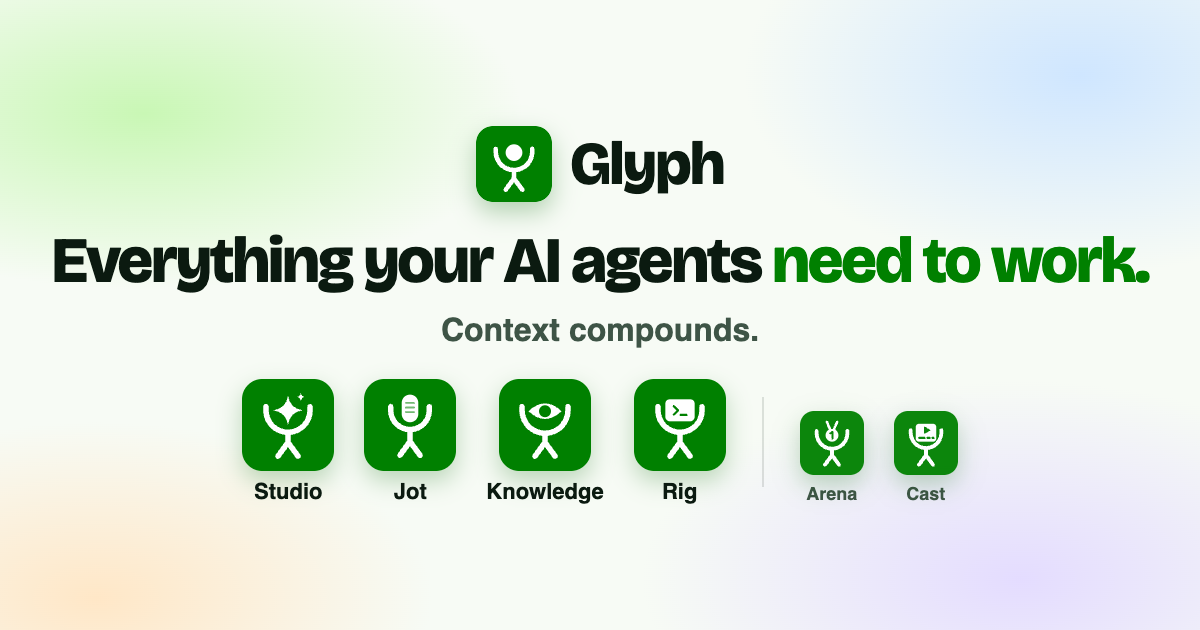
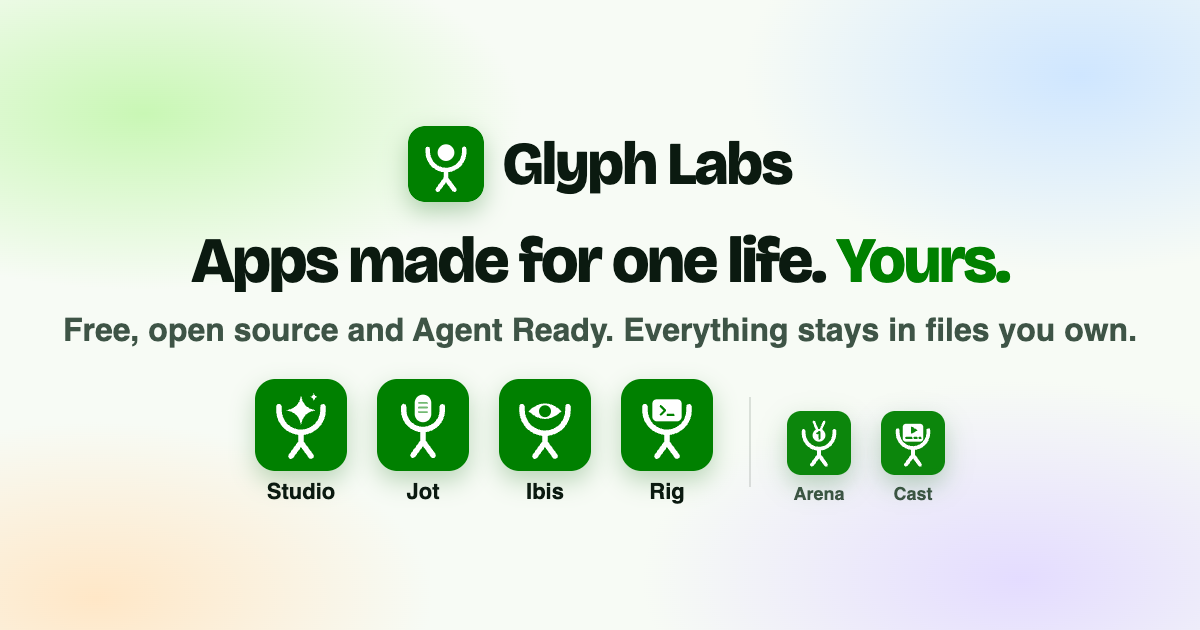
Home: Glyph Labs, a new headline, and a clearer way into each app
The home is named Glyph Labs and says "Apps made for one life. Yours." in
three stacked lines, with a hand-written note beside the last and the line
under it in two tones. The mark, the name and "by fru.dev" share one line.

Glyph Native's tile is filled green, the only one that is. The way into an
app is a green button on the stage's lower edge, and what the app is runs
under it on one line. Tiles answer the pointer. The two halves share one
height. The small print fits one line where the column allows.

home-copy.mjs lets a headline break and sets the first sentence of the line
under it in ink; the share image is redrawn with the new name and words.

diff --git a/docs/index.html b/docs/index.html
@@ -3,8 +3,8 @@
 <head>
 <meta charset="utf-8">
 <meta name="viewport" content="width=device-width, initial-scale=1, viewport-fit=cover">
-<title>Glyph | Everything your AI agents need to work</title>
-<meta name="description" content="Glyph: everything your AI agents need to work. Four layers: Glyph Studio, the environment your agents work in; Glyph Jot, what you know; Glyph Ibis, what the world knows; Glyph Rig, where your agents run. Plus three tools, Glyph Arena, Glyph Cast and Glyph Time. By fru.dev.">
+<title>Glyph Labs | Apps made for one life. Yours.</title>
+<meta name="description" content="Glyph Labs: apps made for one life, yours. Free, open source and agent ready, and everything stays in files you own. Four layers: Glyph Studio, the environment your agents work in; Glyph Jot, what you know; Glyph Ibis, what the world knows; Glyph Rig, where your agents run. Plus Glyph Arena, Glyph Cast, Glyph Time and Glyph Native, the one install for all of them. By fru.dev.">
 <link rel="icon" href="/family/glyph-small.svg" type="image/svg+xml">
 <link rel="icon" href="/family/glyph-192.png" type="image/png" sizes="192x192">
 <link rel="apple-touch-icon" href="/family/glyph-180.png">
@@ -15,8 +15,8 @@
 <meta name="theme-color" content="#F7FBF5">
 <meta property="og:site_name" content="Glyph by fru.dev">
 <meta property="og:type" content="website">
-<meta property="og:title" content="Glyph | Everything your AI agents need to work">
-<meta property="og:description" content="Glyph: everything your AI agents need to work. Four layers: Glyph Studio, the environment your agents work in; Glyph Jot, what you know; Glyph Ibis, what the world knows; Glyph Rig, where your agents run. Plus three tools, Glyph Arena, Glyph Cast and Glyph Time. By fru.dev.">
+<meta property="og:title" content="Glyph Labs | Apps made for one life. Yours.">
+<meta property="og:description" content="Glyph Labs: apps made for one life, yours. Free, open source and agent ready, and everything stays in files you own. Four layers: Glyph Studio, the environment your agents work in; Glyph Jot, what you know; Glyph Ibis, what the world knows; Glyph Rig, where your agents run. Plus Glyph Arena, Glyph Cast, Glyph Time and Glyph Native, the one install for all of them. By fru.dev.">
 <meta property="og:url" content="https://glyph.fru.dev/">
 <meta property="og:image" content="https://glyph.fru.dev/og-image.png">
 <meta property="og:image:width" content="1200">
@@ -24,8 +24,8 @@
 <meta property="og:image:alt" content="Glyph: everything your AI agents need to work. Studio, Jot, Ibis and Rig, plus Arena, Cast and Time">
 <meta name="twitter:card" content="summary_large_image">
 <meta name="twitter:site" content="@fru">
-<meta name="twitter:title" content="Glyph | Everything your AI agents need to work">
-<meta name="twitter:description" content="Glyph: everything your AI agents need to work. Four layers: Glyph Studio, the environment your agents work in; Glyph Jot, what you know; Glyph Ibis, what the world knows; Glyph Rig, where your agents run. Plus three tools, Glyph Arena, Glyph Cast and Glyph Time. By fru.dev.">
+<meta name="twitter:title" content="Glyph Labs | Apps made for one life. Yours.">
+<meta name="twitter:description" content="Glyph Labs: apps made for one life, yours. Free, open source and agent ready, and everything stays in files you own. Four layers: Glyph Studio, the environment your agents work in; Glyph Jot, what you know; Glyph Ibis, what the world knows; Glyph Rig, where your agents run. Plus Glyph Arena, Glyph Cast, Glyph Time and Glyph Native, the one install for all of them. By fru.dev.">
 <meta name="twitter:image" content="https://glyph.fru.dev/og-image.png">
 <link rel="preconnect" href="https://fonts.googleapis.com">
 <link rel="preconnect" href="https://fonts.gstatic.com" crossorigin>
@@ -68,7 +68,15 @@
 .slide.inst li img{width:100%;height:auto;border-radius:24%;box-shadow:0 10px 22px var(--shadow)}
 @keyframes wv{0%,100%{height:5px}50%{height:clamp(14px,2.4vh,22px)}}
 .cap{display:flex;align-items:center;justify-content:space-between;gap:12px;width:100%;font-size:clamp(15px,1.9vh,17px);color:var(--soft)}
-.cap a{font-weight:700;text-decoration:none;white-space:nowrap}.cap a:hover{text-decoration:underline}
+.cap a{font-weight:700;text-decoration:none;white-space:nowrap}
+/* The way into the app is a button, not a line of green words: it sits on the stage's lower edge, and what the app
+   is runs under it on one line (the script below shrinks the line to fit, never wraps it). */
+.cap{flex-direction:column;justify-content:flex-start;gap:clamp(6px,1.2vh,12px);position:relative;z-index:2}
+.cap #capgo{order:-1;display:inline-flex;align-items:center;gap:10px;height:clamp(40px,5.4vh,48px);padding:0 clamp(18px,1.8vw,26px);margin-top:calc(-1 * clamp(10px,1.8vh,18px) - clamp(20px,2.7vh,24px));border-radius:999px;background:var(--green);color:var(--on-green);font-size:clamp(15px,2vh,17px);box-shadow:0 12px 24px rgba(0,128,0,.35),0 0 0 4px var(--bg);transition:transform .2s cubic-bezier(.16,1,.3,1),background .2s,box-shadow .2s}
+.cap #capgo::after{content:"\2192";font-weight:800;transition:transform .2s}
+.cap #capgo:hover{background:var(--green-h);transform:translateY(-2px);box-shadow:0 16px 28px rgba(0,128,0,.4),0 0 0 4px var(--bg)}
+.cap #capgo:hover::after{transform:translateX(4px)}
+#capline{display:block;width:100%;text-align:center;white-space:nowrap;overflow:hidden}
 /* every app on the board: four layers over three tools, each row edge to edge on twelve tracks */
 .tabs{list-style:none;margin:0;padding:0;display:grid;grid-template-columns:repeat(12,minmax(0,1fr));gap:clamp(6px,.7vw,12px);width:100%}
 .tab{grid-column:span 3}
@@ -80,6 +88,24 @@
 .tab .st i{font-style:normal;font-weight:800;color:var(--green);margin-right:5px}
 .tab.tool img{width:clamp(28px,4.4vh,42px)}
 .tab[aria-selected=true]{border-color:var(--tint-line);background:var(--tint)}
+/* Glyph Native is the one that installs the rest, so its tile alone is filled green */
+.tab[data-k=native],.tab[data-k=native][aria-selected=true]{background:var(--green);border-color:var(--green);color:var(--on-green);box-shadow:0 12px 24px -10px rgba(0,128,0,.6)}
+.tab[data-k=native] .st{color:rgba(255,255,255,.88)}
+.tab[data-k=native] img{box-shadow:0 0 0 2px rgba(255,255,255,.85)}
+.tab[data-k=native][aria-selected=true]::after{background:#fff}
+/* a tile answers the pointer: it rises with a green edge and a green shadow, its icon grows and its name turns green */
+.tab{transition:transform .25s cubic-bezier(.16,1,.3,1),box-shadow .25s,border-color .25s,background .25s}
+.tab img{transition:transform .3s cubic-bezier(.16,1,.3,1),box-shadow .3s}.tab b{transition:color .2s}
+@media (hover:hover){
+  .tab:hover,.tab:focus-visible{transform:translateY(-5px);border-color:var(--green);background:#fff;box-shadow:0 18px 30px -14px rgba(0,128,0,.55),0 0 0 3px rgba(0,128,0,.1)}
+  .tab:hover img,.tab:focus-visible img{transform:translateY(-2px) scale(1.07) rotate(-4deg);box-shadow:0 10px 18px -8px rgba(0,100,0,.6)}
+  .tab:hover b,.tab:focus-visible b{color:var(--green)}
+  .tab[data-k=native]:hover,.tab[data-k=native]:focus-visible{background:var(--green-h);border-color:var(--green-h)}
+  .tab[data-k=native]:hover b,.tab[data-k=native]:focus-visible b{color:#fff}
+  .tab[data-k=native]:hover img,.tab[data-k=native]:focus-visible img{box-shadow:0 0 0 2px #fff,0 10px 18px -8px rgba(0,40,0,.6)}
+  .tab:active{transform:translateY(-1px)}
+}
+@media (prefers-reduced-motion:reduce){.tab,.tab img{transition:none}.tab:hover,.tab:hover img{transform:none}}
 .tab[aria-selected=true]::after{content:"";position:absolute;left:0;bottom:0;height:3px;width:100%;background:var(--green);transform-origin:left;animation:fill var(--dur,7s) linear forwards}
 .tabs.hold .tab::after{animation-play-state:paused}
 @keyframes fill{from{transform:scaleX(0)}}
@@ -93,7 +119,22 @@
   .left .top{order:1}.left .cta{order:3}
 }
 @media (max-width:520px){.tab{padding:8px 2px;border-radius:12px}.tab .st{display:none}.tab b{font-size:13px}}
-@media (min-width:960px) and (min-height:560px){.left{justify-content:center;gap:clamp(28px,6vh,64px)}.lede{font-size:clamp(20px,2.8vh,30px)}.right{gap:clamp(10px,1.8vh,18px)}.stage{width:min(100%,calc((100svh - 44px - 10vh - 366px) * 1.6))}}
+/* The hero: the mark, the name and "by fru.dev"
+   on one line; the headline stacked in three big lines; a hand-written note beside the green one (placed by the
+   script below, and hidden where there is no room for it); the line under it in two tones. */
+.brand>div{display:flex;align-items:center;gap:14px}.brand span{margin-top:0;padding-left:14px;border-left:1px solid var(--line)}
+.lede b{display:block;color:var(--ink);font-weight:700}
+.top{position:relative}
+.hn{display:none;position:absolute;align-items:center;gap:8px;font:700 clamp(20px,3vh,30px)/1 "Caveat",cursive;color:var(--green);white-space:nowrap;transform:rotate(-4deg);transform-origin:left center;pointer-events:none}
+.hn svg{width:2.1em;height:1.2em;flex:none}
+@media (min-width:960px) and (min-height:560px){.icon{width:clamp(44px,6.4vh,60px)}.brand b{font-size:clamp(26px,4.2vh,38px)}
+  h1{font-size:clamp(40px,min(10.4vh,7.6vw),150px);line-height:.95;letter-spacing:-.035em}}
+/* a short window: the three lines come down so the left half stays as tall as the right */
+@media (min-width:960px) and (min-height:560px) and (max-height:720px){h1{font-size:clamp(34px,min(7.4vh,7.6vw),150px)}.left .cta.loved{margin-bottom:clamp(40px,6vh,56px)}}
+/* a phone or a tablet: two lines, as before */
+@media not ((min-width:960px) and (min-height:560px)){#copy-h1 br{display:none}}
+/* the two halves share one height: the row is as tall as the right half, and the left spreads from its top to its bottom */
+@media (min-width:960px) and (min-height:560px){main{grid-template-rows:auto;align-content:center}.right{align-self:stretch}.left{justify-content:flex-start;gap:clamp(14px,3vh,32px)}.left .cta,.left .alt{margin-top:auto}.lede{font-size:clamp(20px,2.8vh,30px)}.right{gap:clamp(10px,1.8vh,18px)}.stage{width:min(100%,calc((100svh - 44px - 10vh - 366px) * 1.6))}}
 @media (max-width:1280px){.formac{display:none}}
 /* how they fit: the four layers, then the three tools */
 .layers{list-style:none;margin:0;padding:18px 24px 4px;display:grid;gap:8px}
@@ -112,16 +153,17 @@
   .left .agents{order:4;width:min(100%,440px)}.left .famnote{order:4;width:min(100%,440px);text-align:center}
 }
 @media (max-width:440px){.fam{gap:6px;padding:8px 10px}.fam .grp+.grp{padding-left:6px}.fam .paid{gap:5px}.fam figure img,.fam .ours img{width:32px}}
-@media (min-width:960px) and (min-height:560px){.left .cta.loved{margin-bottom:clamp(44px,6vh,72px)}.left .famnote{margin-top:calc(8px - clamp(28px,6vh,64px))}}
+@media (min-width:960px) and (min-height:560px){.left .cta.loved{margin-bottom:clamp(44px,6vh,72px)}.left .famnote{margin-top:calc(8px - clamp(14px,3vh,32px))}}
 </style>
 </head>
 <body data-page="home">
 <main>
   <div class="left">
     <div class="top">
-      <a class="brand" href="/"><img class="icon" src="/family/glyph-tile.svg" width="80" height="80" alt=""><div><b>Glyph</b><span id="copy-label">by fru.dev</span></div></a>
-      <h1 data-lines='["need to work."]' data-fit=".left,.cta"><span id="copy-h1">Everything your AI agents</span> <em><span id="said">need to work.</span></em></h1>
-      <p class="lede" id="copy-sub">Context compounds.</p>
+      <a class="brand" href="/"><img class="icon" src="/family/glyph-tile.svg" width="80" height="80" alt=""><div><b>Glyph Labs</b><span id="copy-label">by fru.dev</span></div></a>
+      <h1 data-lines='["Yours."]' data-fit=".left,.cta"><span id="copy-h1">Apps made<br>for one life.</span> <em><span id="said">Yours.</span></em></h1>
+      <span class="hn" id="hn" aria-hidden="true"><svg viewBox="0 0 70 40" fill="none" stroke="currentColor" stroke-width="3" stroke-linecap="round" stroke-linejoin="round"><path d="M66 8C48 4 26 10 8 28M8 28l3-13M8 28l13-1"/></svg>shaped around you</span>
+      <p class="lede" id="copy-sub"><b>Free, open source and Agent Ready.</b> Everything stays in files you own.</p>
     </div>
     <div class="cta loved">
       <a class="btn go" id="dl" href="https://github.com/fru-dev3/glyph-native/releases/latest/download/Glyph-Native.dmg" data-track="file_download" title="Glyph Native for Mac: one install for every Glyph app"><svg viewBox="0 0 24 24" fill="none" stroke="currentColor" stroke-width="2.2" stroke-linecap="round" stroke-linejoin="round" aria-hidden="true"><path d="M12 3v12m0 0l-5-5m5 5l5-5M5 21h14"/></svg><span id="dlt">Install <span class="formac">Glyph </span>Native</span><span class="dlc" data-downloads="fru-dev3/glyph-native,fru-dev3/glyph-studio,fru-dev3/glyph-jot,fru-dev3/glyph-record,fru-dev3/glyph,fru-dev3/glyph-engine" data-match="(\.(dmg|exe|msi)|^(prevail|aireadyu)-v[0-9.]+-[a-z0-9-]+\.tar\.gz)$" data-floor="589" data-label="downloads across Glyph: every installer of Native, Studio, Jot, Record and the engine, not counting auto-updates" hidden><svg viewBox="0 0 24 24" fill="none" stroke="currentColor" stroke-width="2.6" stroke-linecap="round" stroke-linejoin="round" aria-hidden="true"><path d="M12 5v12m0 0l-5-5m5 5l5-5"/></svg><b class="n"></b></span></a>
@@ -140,7 +182,7 @@
       <span class="or">or</span>
       <a class="ours" href="https://github.com/fru-dev3/glyph-studio"><img src="/family/studio-tile.svg" width="48" height="48" alt=""><b>Free</b><small>on GitHub</small></a>
     </div>
-    <p class="note famnote">Always-on personal agents. Logos belong to their owners. Not affiliated.<span id="macnote"> Glyph Native needs macOS 26 on Apple silicon.</span></p>
+    <p class="note famnote" id="famnote">Logos belong to their owners. Not affiliated.<span id="macnote"> Glyph Native needs macOS 26 on Apple silicon.</span></p>
   </div>
   <div class="right">
     <!-- stargazers -->
@@ -214,14 +256,28 @@ if(/win/i.test(navigator.userAgent+" "+navigator.platform)&&!/mac/i.test(navigat
 const tabs=document.querySelector(".tabs"),bs=[...tabs.querySelectorAll("button.tab")],sl=[...document.querySelectorAll(".slide")];
 const v=document.querySelector(".slide video"),capline=document.getElementById("capline"),capgo=document.getElementById("capgo");
 let i=0,timer,held=false;
+// The caption stays on one line: its size comes down from the stylesheet's until it fits, to 12px at the least.
+function fitcap(){capline.style.fontSize="";capline.style.whiteSpace="";let s=parseFloat(getComputedStyle(capline).fontSize);while(s>13&&capline.scrollWidth>capline.clientWidth){s-=.5;capline.style.fontSize=s+"px"}
+  if(capline.scrollWidth>capline.clientWidth)capline.style.whiteSpace="normal"} // a small window: two lines beat type too small to read
+addEventListener("resize",fitcap);
+// The hand-written note sits just right of the green line, level with it; with no room for it in the column it stays hidden.
+const hn=document.getElementById("hn"),saidEl=document.getElementById("said"),topEl=document.querySelector(".top");
+function placeNote(){hn.style.display="none";if(narrow.matches)return;const s=saidEl.getBoundingClientRect(),t=topEl.getBoundingClientRect();hn.style.display="flex";
+  hn.style.left=(s.right-t.left+16)+"px";hn.style.top=(s.top-t.top+s.height*.5-hn.offsetHeight*.45)+"px";if(hn.getBoundingClientRect().right>t.right+2)hn.style.display="none"}
+// The small print under the rivals stays on one line where the column is wide enough: down to 11px, then it wraps.
+const famnote=document.getElementById("famnote");
+function fitnote(){famnote.style.fontSize="";famnote.style.whiteSpace="nowrap";let s=parseFloat(getComputedStyle(famnote).fontSize);while(s>11&&famnote.scrollWidth>famnote.clientWidth){s-=.25;famnote.style.fontSize=s+"px"}
+  if(famnote.scrollWidth>famnote.clientWidth){famnote.style.whiteSpace="";famnote.style.fontSize=""}}
+addEventListener("resize",fitnote);fitnote();document.fonts&&document.fonts.ready.then(fitnote);
 function show(n){i=n;const b=bs[n];bs.forEach(x=>x.setAttribute("aria-selected",x===b));sl.forEach(s=>s.classList.toggle("on",s.dataset.k===b.dataset.k));
-  capline.textContent=b.dataset.line;capgo.textContent=b.dataset.go||"Open "+b.dataset.name;capgo.href=b.dataset.href;
+  capline.textContent=b.dataset.line;capgo.textContent=b.dataset.go||"Open "+b.dataset.name;capgo.href=b.dataset.href;fitcap();
   bs.forEach(x=>x.style.removeProperty("--dur"));
   if(b.dataset.k==="studio"){const sfx="-light";v.poster=`/studio/demos/council${sfx}-start.webp`;if(!v.src.includes("council"+sfx+".mp4"))v.src=`/studio/demos/council${sfx}.mp4`;v.currentTime=.8;if(!still)v.play().catch(()=>{})}else v.pause();
   clearTimeout(timer);if(still||held)return;
   const dur=b.dataset.k==="studio"&&v.duration?Math.max(7,v.duration-1):7;b.style.setProperty("--dur",dur+"s");
   b.style.animation="none";b.offsetWidth;b.style.animation="";timer=setTimeout(()=>show((i+1)%bs.length),dur*1000)}
 const narrow=matchMedia("not ((min-width:960px) and (min-height:560px))");
+addEventListener("resize",()=>setTimeout(placeNote,60));addEventListener("load",()=>setTimeout(placeNote,300));document.fonts&&document.fonts.ready.then(()=>setTimeout(placeNote,300));
 bs.forEach((b,n)=>b.addEventListener("click",()=>{if(narrow.matches){location.href=b.dataset.href;return}show(n);try{gtag("event","home_stage",{app:b.dataset.k})}catch{}}));
 const st=document.querySelector(".right");
 st.addEventListener("mouseenter",()=>{held=true;clearTimeout(timer);tabs.classList.add("hold")});
